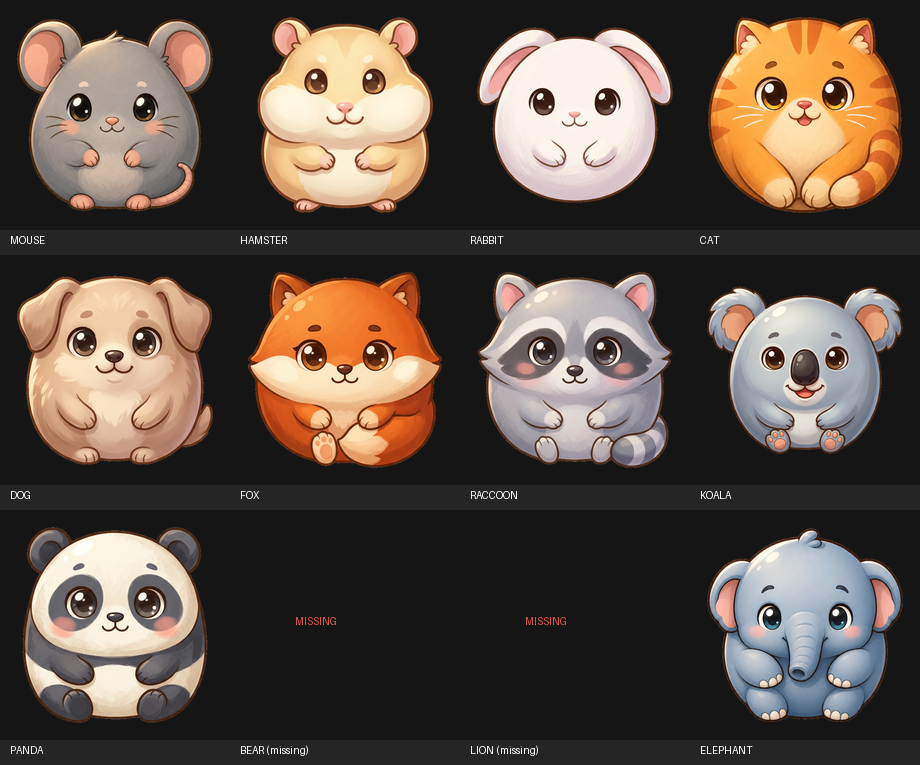
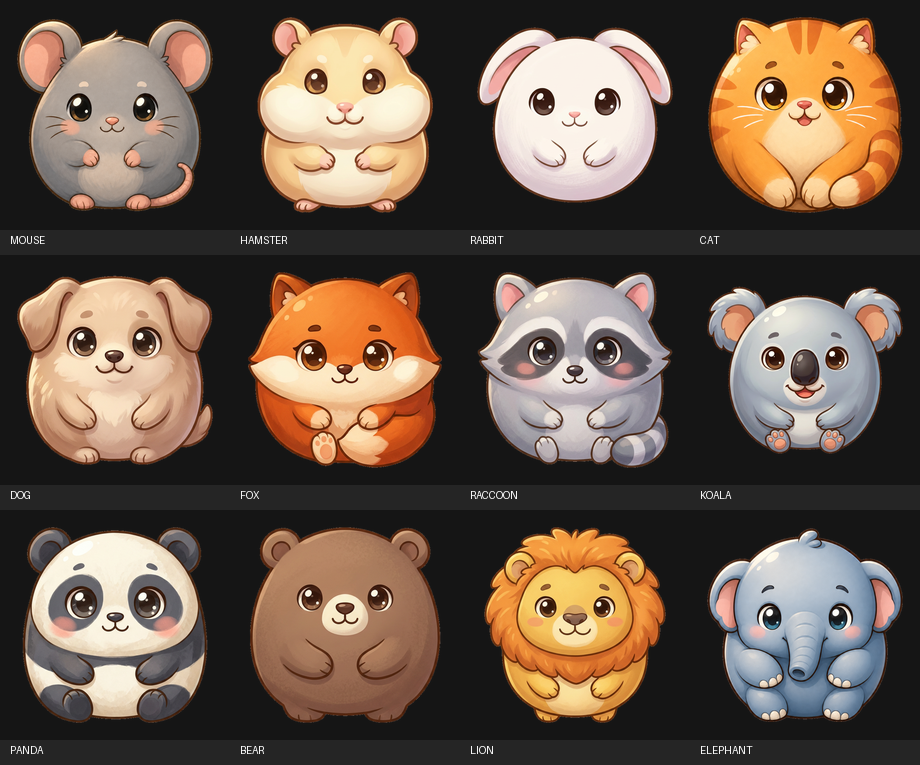
Add bear and lion WIP sprites and full-window theme capture

Changed region(s): [[0.2739, 0.6915, 0.487, 0.9922], [0.5174, 0.6915, 0.7304, 0.9621], [0.5478, 0.9621, 0.5783, 0.9922]]

diff --git a/MergeAnimals/tools/audit_wip_assets.py b/MergeAnimals/tools/audit_wip_assets.py
@@ -40,3 +40,21 @@ for mode in ['white','black','collision']:
         draw.text((x+10,y+cell+4), name.upper() + (' (missing)' if not path.exists() else ''), fill=('#fff' if mode=='black' else '#40342f'),font=font)
     sheet.save(out / ('contact_'+mode+'_WIP.png'))
 print(json.dumps(results, indent=2))
+import re
+ov = out/'collision_overlays'; ov.mkdir(exist_ok=True)
+radii = []
+for name in NAMES:
+    im=Image.open(ROOT/'assets'/'animals'/name/'normal.png').convert('RGBA')
+    canvas=Image.new('RGBA',(512,512),'#f4ead6');canvas.alpha_composite(im)
+    d=ImageDraw.Draw(canvas);d.ellipse((0,0,511,511),outline='#00a9dd',width=3)
+    canvas.convert('RGB').save(ov/(name+'.png'))
+    text=(ROOT/'resources'/'animals'/(name+'.tres')).read_text()
+    radii.append(float(re.search(r'^radius = ([\d.]+)',text,re.M).group(1)))
+# pixels use the 720-wide design-coordinate radius, not a normalized/illustrative size
+sheet=Image.new('RGB',(1100,650),'#f4ead6'); d=ImageDraw.Draw(sheet)
+for i,(name,r) in enumerate(zip(NAMES,radii)):
+    x=135+(i%4)*270; y=90+(i//4)*200
+    im=Image.open(ROOT/'assets'/'animals'/name/'normal.png').convert('RGBA').resize((round(r*2),round(r*2)),Image.Resampling.LANCZOS)
+    sheet.paste(im,(round(x-r),round(y-r)),im)
+    d.text((x-45,y+max(50,r)+4),f'{name} r={r:g}',fill='#30251f',font=font)
+sheet.save(out/'contact_game_scale_WIP.png')
